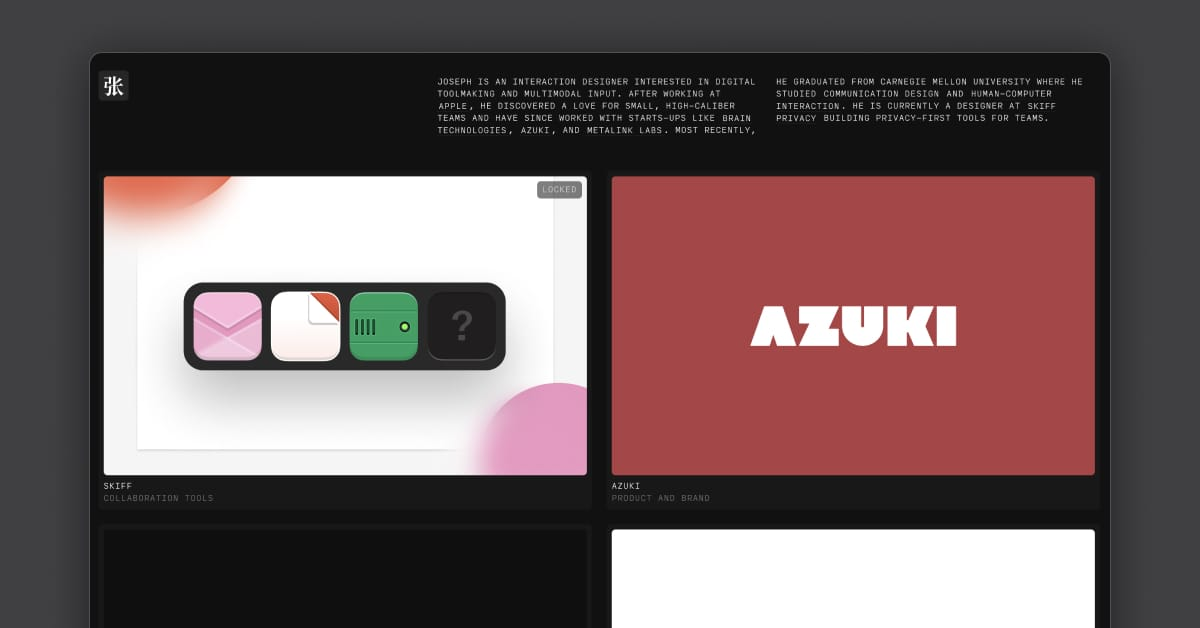
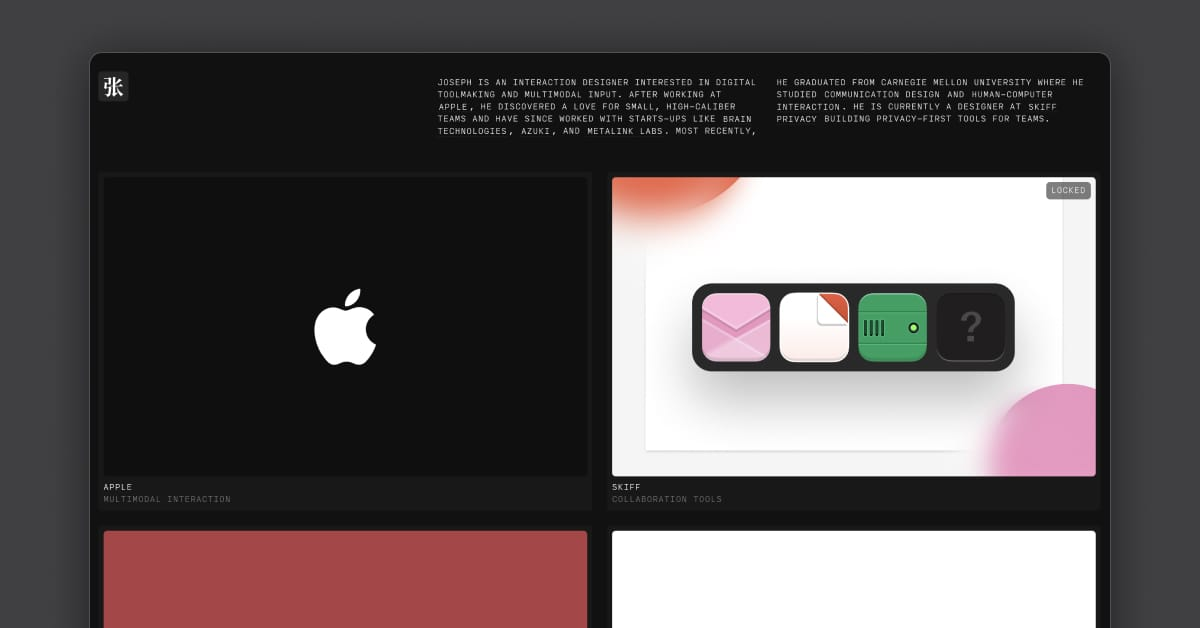
update order

diff --git a/pages/index.js b/pages/index.js
@@ -60,22 +60,6 @@ export default function Home() {
         </motion.p>
 
         <ProjectCard
-          title="Skiff"
-          description="collaboration tools"
-          col={1}
-          locked={true}
-          isImage={true}
-          content={"/project-covers/skiff-2.jpg"}
-        ></ProjectCard>
-        <ProjectCard
-          title="Azuki"
-          description="Product and Brand"
-          col={2}
-          link="/azuki"
-          isImage={true}
-          content={"/project-covers/azuki.jpg"}
-        ></ProjectCard>
-        <ProjectCard
           title="Apple"
           description="Multimodal interaction"
           col={1}
@@ -83,6 +67,24 @@ export default function Home() {
           isImage={true}
           content={"/project-covers/apple.jpg"}
         ></ProjectCard>
+
+                <ProjectCard
+          title="Skiff"
+          description="collaboration tools"
+          col={2}
+          locked={true}
+          isImage={true}
+          content={"/project-covers/skiff-2.jpg"}
+        ></ProjectCard>
+                <ProjectCard
+          title="Azuki"
+          description="Product and Brand"
+          col={1}
+          link="/azuki"
+          isImage={true}
+          content={"/project-covers/azuki.jpg"}
+        ></ProjectCard>
+
         <ProjectCard
           title="Brain Technologies"
           description="multimodal interaction"

diff --git a/components/home/ProjectCard.js b/components/home/ProjectCard.js
@@ -67,7 +67,7 @@ export default function ProjectCard(props) {
           <p className={`text-zinc-50`}>{props.title}</p>
           <p className="text-zinc-500">{props.description}</p>
           {props.locked && (
-            <p className="absolute text-zinc-300 rounded-md right-4 top-4 px-2 py-1 bg-[rgba(0,0,0,.5)]">
+            <p className="absolute text-neutral-100 rounded-md right-4 top-4 px-2 py-1 bg-[rgba(0,0,0,.5)]">
               LOCKED
             </p>
           )}
